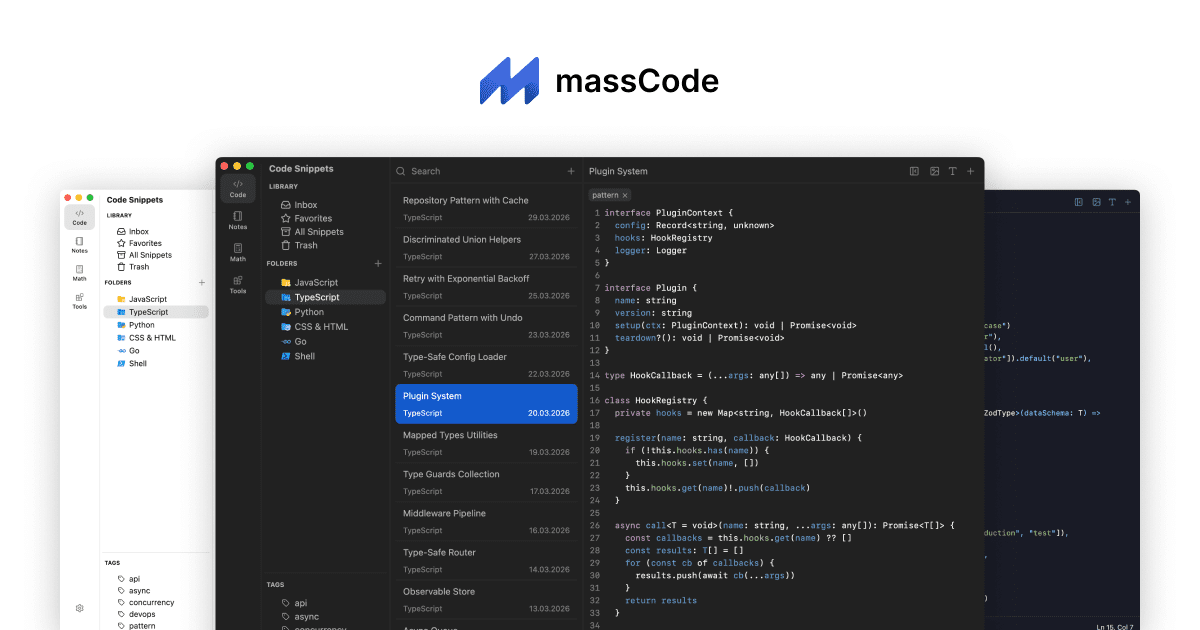
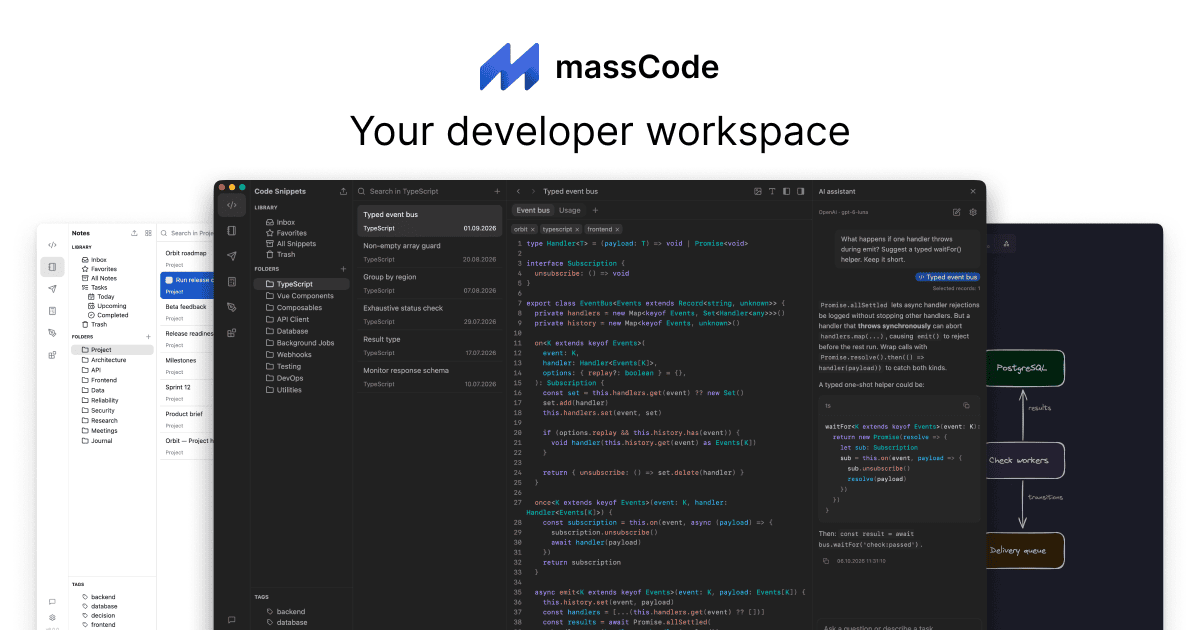
docs: remove DigitalOcean sponsor and update og image

diff --git a/README.md b/README.md
@@ -64,10 +64,6 @@ massCode is free and open source. But building and maintaining a quality tool ta
 </p>
 
 <p align="center">
-  <a href="https://m.do.co/c/f2bb3bfab2e6">
-    <img src='.github/assets/DO.svg'>
-  </a>
-  &nbsp;
   <a href="https://mysigmail.com/?ref=github/massCodeIO">
     <img src='.github/assets/MySigMail.svg'>
   </a>
